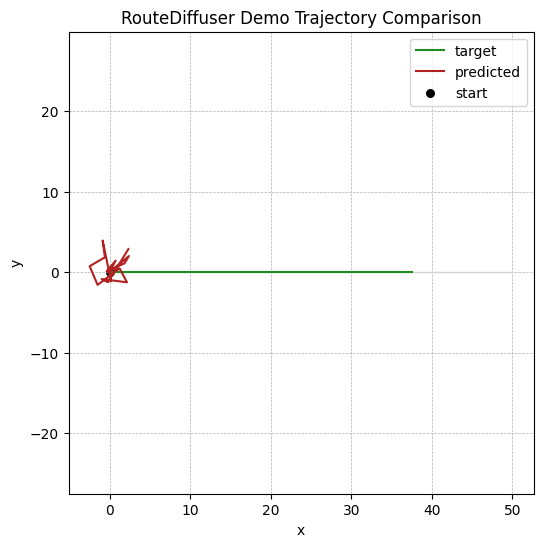
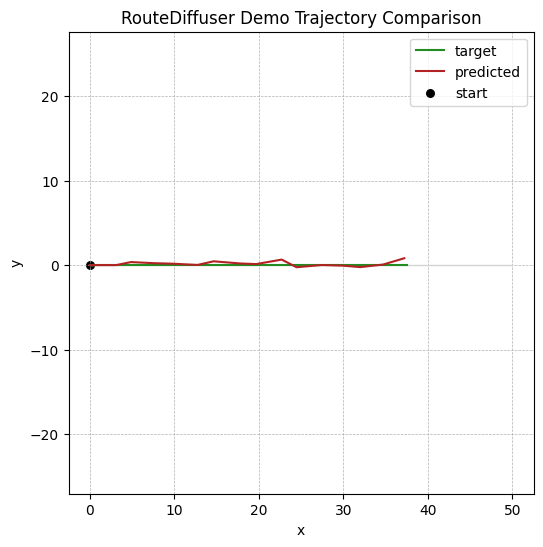
Improve demo with route-prior residual diffusion

diff --git a/planner/models/diffusion_planner.py b/planner/models/diffusion_planner.py
@@ -6,15 +6,16 @@ from dataclasses import dataclass
 from typing import Any
 
 import torch
-import torch.nn.functional as F
 from torch import nn
 
 from planner.datasets.schema import CanonicalSceneBatch
 from planner.diffusion.schedule import DiffusionSchedule
 from planner.diffusion.utils import ddpm_step, q_sample
 from planner.inference.anchoring import anchor_first_timestep
+from planner.losses.diffusion import noise_prediction_loss
 from planner.models.diffusion_decoder import DiffusionDecoder
 from planner.models.scene_encoder import SceneEncoder
+from planner.preprocess import build_route_trajectory_prior
 
 
 @dataclass(frozen=True)
@@ -31,6 +32,8 @@ class DiffusionPlannerConfig:
     decoder_kernel_size: int = 5
     decoder_groups: int = 8
     future_horizon: int = 16
+    route_query_step: float = 2.5
+    use_route_prior: bool = True
     diffusion_steps: int = 32
     beta_start: float = 1e-4
     beta_end: float = 2e-2
@@ -93,6 +96,39 @@ class DiffusionPlanner(nn.Module):
         context = self.encoder(scene_batch)
         return self.decoder(noisy_trajectory, timesteps, context)
 
+    def build_trajectory_prior(self, scene_batch: CanonicalSceneBatch) -> torch.Tensor:
+        if not self.config.use_route_prior:
+            prior = torch.zeros(
+                scene_batch.batch_size,
+                self.config.future_horizon,
+                self.config.trajectory_dim,
+                device=scene_batch.ego_current_state.device,
+                dtype=scene_batch.ego_current_state.dtype,
+            )
+            prior[:, 0] = scene_batch.ego_current_state
+            return prior
+
+        return build_route_trajectory_prior(
+            scene_batch=scene_batch,
+            future_horizon=self.config.future_horizon,
+            longitudinal_step=self.config.route_query_step,
+        )
+
+    def _training_mask(self, scene_batch: CanonicalSceneBatch) -> torch.Tensor:
+        mask = (
+            scene_batch.future_ego_mask
+            if scene_batch.future_ego_mask is not None
+            else torch.ones(
+                scene_batch.batch_size,
+                self.config.future_horizon,
+                device=scene_batch.ego_current_state.device,
+                dtype=torch.bool,
+            )
+        )
+        mask = mask.clone()
+        mask[:, 0] = False
+        return mask
+
     def training_loss(
         self, scene_batch: CanonicalSceneBatch, noise: torch.Tensor | None = None
     ) -> dict[str, torch.Tensor]:
@@ -100,7 +136,8 @@ class DiffusionPlanner(nn.Module):
         if scene_batch.future_ego_trajectory is None:
             raise ValueError("future_ego_trajectory is required for training")
 
-        target = scene_batch.future_ego_trajectory
+        prior = self.build_trajectory_prior(scene_batch)
+        target = scene_batch.future_ego_trajectory - prior
         batch_size = target.shape[0]
         timesteps = torch.randint(
             low=0,
@@ -111,13 +148,21 @@ class DiffusionPlanner(nn.Module):
         )
         if noise is None:
             noise = torch.randn_like(target)
+        noise = noise.clone()
+        noise[:, 0] = 0.0
         noisy_target = q_sample(target, timesteps, self.schedule, noise=noise)
+        noisy_target[:, 0] = 0.0
         pred_noise = self(scene_batch, noisy_target, timesteps)
-        loss = F.mse_loss(pred_noise, noise)
+        loss = noise_prediction_loss(
+            pred_noise,
+            noise,
+            mask=self._training_mask(scene_batch),
+        )
         return {
             "loss": loss,
             "pred_noise": pred_noise,
             "target_noise": noise,
+            "trajectory_prior": prior,
             "timesteps": timesteps,
         }
 
@@ -128,25 +173,28 @@ class DiffusionPlanner(nn.Module):
         scene_batch.validate()
         batch_size = scene_batch.batch_size
         device = scene_batch.ego_current_state.device
+        prior = self.build_trajectory_prior(scene_batch)
         outputs = []
 
         for _ in range(num_samples):
-            sample = torch.randn(
+            residual = torch.randn(
                 batch_size,
                 self.config.future_horizon,
                 self.config.trajectory_dim,
                 device=device,
             )
-            sample = anchor_first_timestep(sample, scene_batch.ego_current_state)
+            residual[:, 0] = 0.0
 
             for step in reversed(range(self.config.diffusion_steps)):
                 timesteps = torch.full(
                     (batch_size,), step, device=device, dtype=torch.long
                 )
-                pred_noise = self(scene_batch, sample, timesteps)
-                sample = ddpm_step(sample, pred_noise, timesteps, self.schedule)
-                sample = anchor_first_timestep(sample, scene_batch.ego_current_state)
+                pred_noise = self(scene_batch, residual, timesteps)
+                residual = ddpm_step(residual, pred_noise, timesteps, self.schedule)
+                residual[:, 0] = 0.0
 
+            sample = prior + residual
+            sample = anchor_first_timestep(sample, scene_batch.ego_current_state)
             outputs.append(sample)
 
         return torch.stack(outputs, dim=1)

diff --git a/planner/preprocess/route_prior.py b/planner/preprocess/route_prior.py
@@ -1,0 +1,82 @@
+"""Route-conditioned trajectory priors for planner training and inference."""
+
+from __future__ import annotations
+
+import torch
+
+from planner.datasets.schema import CanonicalSceneBatch
+
+
+def build_route_trajectory_prior(
+    scene_batch: CanonicalSceneBatch,
+    future_horizon: int,
+    longitudinal_step: float,
+) -> torch.Tensor:
+    """Construct a simple route-following trajectory prior in the planner frame."""
+
+    scene_batch.validate()
+    device = scene_batch.ego_current_state.device
+    dtype = scene_batch.ego_current_state.dtype
+
+    query_x = torch.arange(future_horizon, device=device, dtype=dtype) * longitudinal_step
+    priors = []
+    for batch_index in range(scene_batch.batch_size):
+        route_polylines = scene_batch.route_lanes[batch_index]
+        route_mask = scene_batch.route_lanes_mask[batch_index]
+        valid_lane_index = _first_valid_lane_index(route_mask)
+        lane_points = route_polylines[valid_lane_index][route_mask[valid_lane_index]]
+        if lane_points.shape[0] == 0:
+            raise ValueError("route prior requires at least one valid route point")
+        priors.append(
+            _interpolate_route_states(
+                lane_points=lane_points,
+                current_state=scene_batch.ego_current_state[batch_index],
+                query_x=query_x,
+            )
+        )
+
+    return torch.stack(priors, dim=0)
+
+
+def _first_valid_lane_index(route_mask: torch.Tensor) -> int:
+    valid_lanes = route_mask.any(dim=-1)
+    indices = torch.nonzero(valid_lanes, as_tuple=False)
+    if indices.numel() == 0:
+        return 0
+    return int(indices[0].item())
+
+
+def _interpolate_route_states(
+    lane_points: torch.Tensor,
+    current_state: torch.Tensor,
+    query_x: torch.Tensor,
+) -> torch.Tensor:
+    trajectory_dim = int(current_state.shape[-1])
+    prior = torch.zeros(query_x.shape[0], trajectory_dim, device=lane_points.device, dtype=lane_points.dtype)
+
+    x_src = lane_points[:, 0]
+    y_src = lane_points[:, 1]
+    cos_src = lane_points[:, 2]
+    sin_src = lane_points[:, 3]
+    x_src = x_src.contiguous()
+
+    clamped_x = query_x.clamp(min=float(x_src[0].item()), max=float(x_src[-1].item()))
+    upper = torch.searchsorted(x_src, clamped_x, right=True).clamp(
+        min=1, max=x_src.shape[0] - 1
+    )
+    lower = upper - 1
+    denom = (x_src[upper] - x_src[lower]).clamp(min=1e-6)
+    weight = (clamped_x - x_src[lower]) / denom
+
+    prior[:, 0] = clamped_x
+    prior[:, 1] = torch.lerp(y_src[lower], y_src[upper], weight)
+    prior[:, 2] = torch.lerp(cos_src[lower], cos_src[upper], weight)
+    prior[:, 3] = torch.lerp(sin_src[lower], sin_src[upper], weight)
+
+    heading_norm = torch.linalg.norm(prior[:, 2:4], dim=-1, keepdim=True).clamp(min=1e-6)
+    prior[:, 2:4] = prior[:, 2:4] / heading_norm
+
+    speed = torch.linalg.norm(current_state[4:6]).clamp(min=1e-6)
+    prior[:, 4:6] = speed * prior[:, 2:4]
+    prior[0] = current_state
+    return prior

diff --git a/scripts/demo_portfolio.py b/scripts/demo_portfolio.py
@@ -37,7 +37,7 @@ def parse_args() -> argparse.Namespace:
     parser.add_argument("--train-config", default="configs/train/base.yaml")
     parser.add_argument("--inference-config", default="configs/inference/base.yaml")
     parser.add_argument("--output-dir", default="outputs/portfolio_demo")
-    parser.add_argument("--epochs", type=int, default=4)
+    parser.add_argument("--epochs", type=int, default=20)
     return parser.parse_args()
 
 
@@ -195,7 +195,7 @@ def main() -> None:
         "tagline": "Conditional 1D U-Net trajectory denoiser for route-conditioned planning",
         "highlights": [
             "Canonical scene schema for ego, neighbors, lanes, route polylines, and masks.",
-            "Conditional 1D U-Net decoder trained with DDPM-style noise prediction.",
+            "Route-prior residual diffusion with a conditional 1D U-Net decoder.",
             "Structured synthetic driving scenarios spanning keep-lane, lane changes, and curves.",
             "End-to-end scripts for training, inference, evaluation, and portfolio artifact generation.",
         ],
@@ -210,7 +210,7 @@ def main() -> None:
         "stack": ["Python", "PyTorch", "Diffusion Models", "Trajectory Planning"],
         "resume_bullets": [
             "Built a route-conditioned autonomous driving planner around a conditional diffusion policy.",
-            "Implemented a conditional 1D U-Net decoder, DDPM training loop, and iterative denoising sampler.",
+            "Implemented route-prior residual diffusion with a conditional 1D U-Net decoder and iterative denoising sampler.",
             "Designed structured synthetic scenarios and open-loop metrics to demonstrate planning behavior without proprietary data.",
         ],
         "next_extensions": [

diff --git a/tests/test_preprocess.py b/tests/test_preprocess.py
@@ -4,11 +4,13 @@ import torch
 
 from planner.preprocess import (
     MinMaxNormalizer,
+    build_route_trajectory_prior,
     cos_sin_to_heading,
     global_to_local,
     heading_to_cos_sin,
     local_to_global,
 )
+from planner.datasets import SyntheticDatasetConfig, SyntheticPlanningDataset, collate_scene_batches
 
 
 def test_heading_roundtrip() -> None:
@@ -35,3 +37,20 @@ def test_min_max_normalizer_roundtrip() -> None:
     normalized = normalizer.normalize(values)
     restored = normalizer.unnormalize(normalized)
     assert torch.allclose(restored, values, atol=1e-5)
+
+
+def test_route_trajectory_prior_matches_synthetic_scene() -> None:
+    dataset = SyntheticPlanningDataset(SyntheticDatasetConfig(num_samples=2))
+    batch = collate_scene_batches([dataset[0], dataset[1]])
+    prior = build_route_trajectory_prior(
+        scene_batch=batch,
+        future_horizon=batch.future_horizon,
+        longitudinal_step=2.5,
+    )
+
+    xy_error = torch.linalg.norm(
+        prior[..., :2] - batch.future_ego_trajectory[..., :2],
+        dim=-1,
+    )
+    assert torch.allclose(prior[:, 0], batch.ego_current_state)
+    assert float(xy_error.mean()) < 1.5

diff --git a/planner/losses/diffusion.py b/planner/losses/diffusion.py
@@ -6,7 +6,18 @@ import torch
 import torch.nn.functional as F
 
 
-def noise_prediction_loss(predicted: torch.Tensor, target: torch.Tensor) -> torch.Tensor:
+def noise_prediction_loss(
+    predicted: torch.Tensor,
+    target: torch.Tensor,
+    mask: torch.Tensor | None = None,
+) -> torch.Tensor:
     """Mean-squared error between predicted and target diffusion noise."""
 
-    return F.mse_loss(predicted, target)
+    if mask is None:
+        return F.mse_loss(predicted, target)
+    if mask.shape != predicted.shape[:-1]:
+        raise ValueError("mask shape must match predicted batch and horizon dimensions")
+
+    loss = F.mse_loss(predicted, target, reduction="none")
+    weights = mask.to(loss.dtype).unsqueeze(-1)
+    return (loss * weights).sum() / weights.sum().clamp(min=1.0) / predicted.shape[-1]

diff --git a/planner/preprocess/__init__.py b/planner/preprocess/__init__.py
@@ -3,6 +3,7 @@
 from planner.preprocess.angles import cos_sin_to_heading, heading_to_cos_sin
 from planner.preprocess.coordinates import global_to_local, local_to_global
 from planner.preprocess.normalization import MinMaxNormalizer
+from planner.preprocess.route_prior import build_route_trajectory_prior
 
 __all__ = [
     "cos_sin_to_heading",
@@ -10,4 +11,5 @@ __all__ = [
     "global_to_local",
     "local_to_global",
     "MinMaxNormalizer",
+    "build_route_trajectory_prior",
 ]

diff --git a/README.md b/README.md
@@ -14,13 +14,13 @@ Most autonomous driving projects cannot ship their real datasets, simulator stac
 evaluation infrastructure. This repository focuses on the part that can be shown clearly:
 
 - canonical scene-schema design for ego, neighbors, lanes, route polylines, and masks
-- a conditional 1D U-Net diffusion policy for future ego trajectory generation
+- a route-prior residual diffusion policy with a conditional 1D U-Net decoder
 - structured synthetic driving scenes that still look like real planning tasks
 - open-loop metrics, checkpointing, and plotting for inspection and storytelling
 
 ## What It Demonstrates
 
-- Built a route-conditioned planner that denoises future trajectories from scene context.
+- Built a route-conditioned planner that denoises trajectory residuals around a route prior.
 - Implemented DDPM-style training, iterative inference, and first-step anchoring to the current ego state.
 - Modeled keep-lane, lane-change-left, lane-change-right, and curved-road scenarios in a reusable synthetic generator.
 - Packaged the project with training, inference, evaluation, and portfolio demo scripts.
@@ -55,6 +55,7 @@ and writes a summary that is easy to reuse in a GitHub project page or resume po
 structured scenario generator / future dataset adapter
   -> canonical scene tensors
   -> scene encoder
+  -> route prior construction
   -> conditional diffusion decoder (1D U-Net)
   -> iterative trajectory denoising
   -> open-loop metrics and debugging plots

diff --git a/outputs/portfolio_demo/portfolio_summary.md b/outputs/portfolio_demo/portfolio_summary.md
@@ -6,7 +6,7 @@ A planner-core autonomous driving project that demonstrates canonical scene mode
 
 ## Highlights
 - Canonical scene schema for ego, neighbors, lanes, route polylines, and masks.
-- Conditional 1D U-Net decoder trained with DDPM-style noise prediction.
+- Route-prior residual diffusion with a conditional 1D U-Net decoder.
 - Structured synthetic driving scenarios spanning keep-lane, lane changes, and curves.
 - End-to-end scripts for training, inference, evaluation, and portfolio artifact generation.
 
@@ -17,13 +17,13 @@ A planner-core autonomous driving project that demonstrates canonical scene mode
 - `gentle_curve`: Route tracking on a gradually curving road segment.
 
 ## Open-Loop Metrics
-- ADE: 18.977
-- FDE: 37.919
-- Route Error: 1.355
+- ADE: 0.877
+- FDE: 1.474
+- Route Error: 0.672
 
 ## Resume Bullets
 - Built a route-conditioned autonomous driving planner around a conditional diffusion policy.
-- Implemented a conditional 1D U-Net decoder, DDPM training loop, and iterative denoising sampler.
+- Implemented route-prior residual diffusion with a conditional 1D U-Net decoder and iterative denoising sampler.
 - Designed structured synthetic scenarios and open-loop metrics to demonstrate planning behavior without proprietary data.
 
 ## Artifacts
